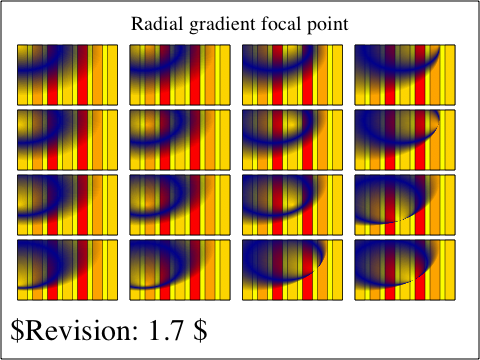
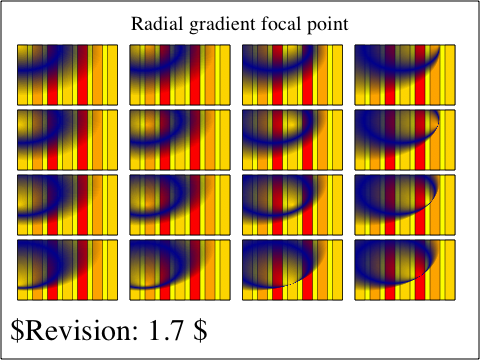
2010-01-11  Dirk Schulze  <krit@webkit.org>
Reviewed by Nikolas Zimmermann.

        SVG radialGradient example radial-gradient-with-outstanding-focalPoint.svg fails
        https://bugs.webkit.org/show_bug.cgi?id=32201

        * platform/mac/svg/W3C-SVG-1.1/pservers-grad-13-b-expected.checksum:
        * platform/mac/svg/W3C-SVG-1.1/pservers-grad-13-b-expected.png:
        * platform/mac/svg/custom/radial-gradient-with-outstanding-focalPoint-expected.checksum:
        * platform/mac/svg/custom/radial-gradient-with-outstanding-focalPoint-expected.png:
2010-01-11  Dirk Schulze  <krit@webkit.org>

        Reviewed by Nikolas Zimmermann.

        SVG radialGradient example radial-gradient-with-outstanding-focalPoint.svg fails
        https://bugs.webkit.org/show_bug.cgi?id=32201

        This patch moves every focalPoint that lies outside the circle defined by the radial
        gradients central point and its radius to stay inside this circle, as demanded by the
        SVG 1.1 specification.
        We use r * 0.99 as maximum radius for the aforementioned circle, when determining where
        the focalPoint is lying, to achieve compatibility with Firefox.

        * svg/SVGRadialGradientElement.cpp:
        (WebCore::SVGRadialGradientElement::buildGradient):

git-svn-id: https://svn.webkit.org/repository/webkit/trunk@53106 268f45cc-cd09-0410-ab3c-d52691b4dbfc

Changed region(s): [[0.7188, 0.4889, 0.9375, 0.6417], [0.5, 0.6417, 0.6875, 0.825], [0.7188, 0.6722, 0.9062, 0.825]]

diff --git a/WebCore/svg/SVGRadialGradientElement.cpp b/WebCore/svg/SVGRadialGradientElement.cpp
@@ -108,29 +108,17 @@ void SVGRadialGradientElement::buildGradient() const
     FloatPoint adjustedFocalPoint = focalPoint;
     float dfx = focalPoint.x() - centerPoint.x();
     float dfy = focalPoint.y() - centerPoint.y();
+    float rMax = 0.99f * radius;
 
     // Spec: If (fx, fy) lies outside the circle defined by (cx, cy) and
     // r, set (fx, fy) to the point of intersection of the line through
     // (fx, fy) and the circle.
-    if (sqrt(dfx * dfx + dfy * dfy) >= radius) {
-        float angle = atan2f(dfx, dfy);
+    // We scale the radius by 0.99 to match the behavior of FireFox.
+    if (sqrt(dfx * dfx + dfy * dfy) > rMax) {
+        float angle = atan2f(dfy, dfx);
 
-        // The maximum deviation of 0.2% is needed on Cairo, since Cairo
-        // is working with fixed point numbers.
-#if PLATFORM(CAIRO)
-        if (focalPoint.x() < centerPoint.x())
-            dfx = cosf(angle) * radius + 0.002f;
-        else
-            dfx = cosf(angle) * radius - 0.002f;
-        if (focalPoint.y() < centerPoint.y())
-            dfy = sinf(angle) * radius + 0.002f;
-        else
-            dfy = sinf(angle) * radius - 0.002f;
-#else
-        dfx = cosf(angle) * radius;
-        dfy = sinf(angle) * radius;
-#endif
-
+        dfx = cosf(angle) * rMax;
+        dfy = sinf(angle) * rMax;
         adjustedFocalPoint = FloatPoint(dfx + centerPoint.x(), dfy + centerPoint.y());
     }
 
